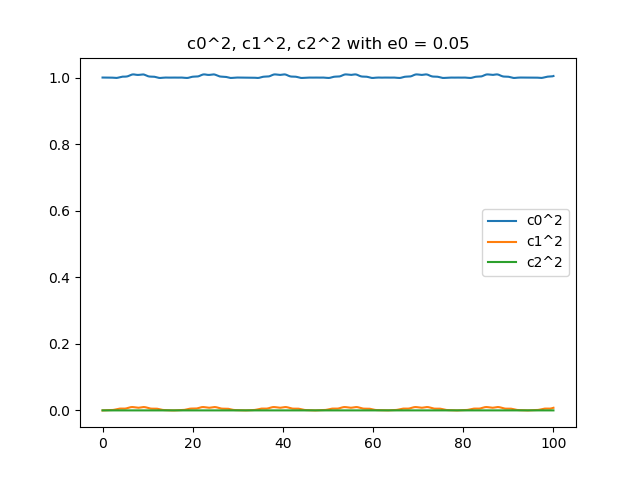
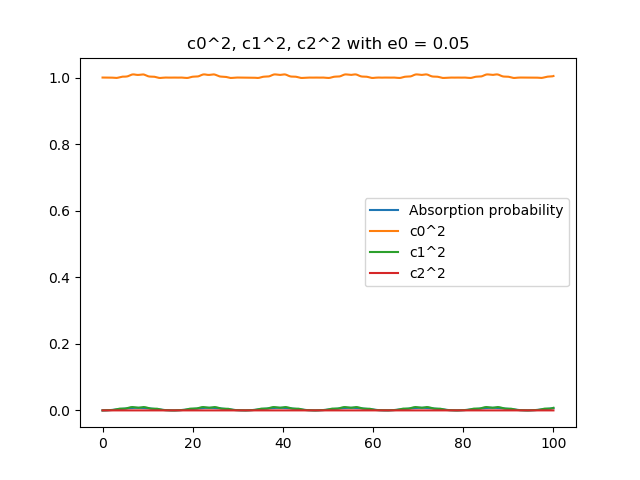
Fikk til absorption probability

diff --git a/oppgave2.py b/oppgave2.py
@@ -34,13 +34,13 @@ def runge_kutta_method(tn, yn, dt, f):
 who = 1.4
 w = 1.0
 h_ = 1
-q = 1
+q = -1
 me = 1
 e_ = 1
 
 e0_1 = 0.05
-e0_2 = 0.2
-e0_3 = 0.5
+e0_1 = 0.2
+e0_1 = 0.5
 n_states = 3
 
 En = h_ * who * (n_states + 0.5)
@@ -61,13 +61,12 @@ dt = 0.01
 def f1(t, c):
     diag = np.sqrt(np.arange(1, n_states))
     V0 = np.zeros([n_states, n_states], dtype=complex)
-    V0 += np.diag(diag, 1) + np.diag(diag, -1)
-    V = V0 * (
-        (x_0 / (np.sqrt(2))) * (-q) * e0_1 * np.cos(w * t) * np.exp((1j * who * t))
-    )
-    return (-1j / h_) * np.dot(
-        V, c
-    )  # * np.exp((1j * En * t) / h_)  # byttet ut En med e_0*cos(wt)
+    k = (x_0 / (np.sqrt(2))) * (-q) * e0_1 * np.cos(w * t) * np.exp((1j * who * t))
+    V0 += (np.diag(diag, 1) * k) + (np.diag(diag, -1) * k)
+    # V = V0 * (
+    # (x_0 / (np.sqrt(2))) * (-q) * e0_1 * np.cos(w * t) * np.exp((1j * who * t))
+    # )
+    return (-1j / h_) * np.dot(V0, c)
 
 
 for i in range(num - 1):
@@ -78,7 +77,8 @@ def absorption_probability(t):
     diag = np.sqrt(np.arange(1, n_states))
     V0 = np.zeros([n_states, n_states], dtype=complex)
     V0 += np.diag(diag, 1) + np.diag(diag, -1)
-    W_fi_2 = (V0 * (x_0 / np.sqrt(2)) * ((-q * e0_1) / 2)) ** 2
+    V = V0[0, 1]
+    W_fi_2 = (V * (x_0 / np.sqrt(2)) * ((-q * e0_1) / 2)) ** 2
     return (W_fi_2 * np.sin(0.5 * (who - w) * t) ** 2) / (
         h_ ** 2 * (0.5 * (who - w)) ** 2
     )
@@ -87,11 +87,11 @@ def absorption_probability(t):
 c__ = np.abs(c) ** 2
 
 
-# plt.plot(tn, absorption_probability(tn), label="Absorption probability")
+plt.plot(tn, absorption_probability(tn), label="Absorption probability")
 plt.plot(tn, c__[:, 0], label="c0^2")
 plt.plot(tn, c__[:, 1], label="c1^2")
 plt.plot(tn, c__[:, 2], label="c2^2")
 plt.legend()
-plt.title("c0^2, c1^2, c2^2 with e0 = 0.05")
-plt.savefig("2f e0=0,05.png")
+plt.title("c0^2, c1^2, c2^2 with e0 = 0.5")
+plt.savefig("2f e0=0,5.png")
 plt.show()
